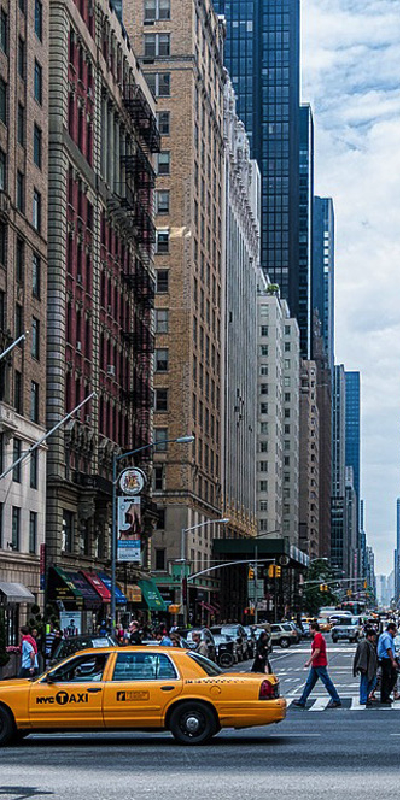
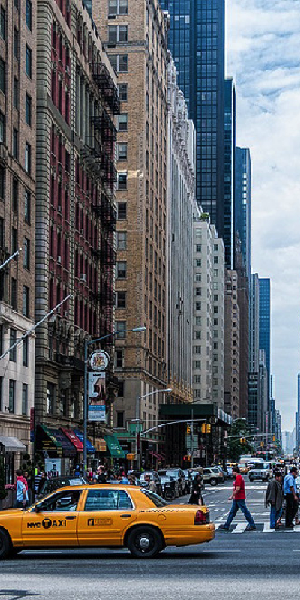
Implemented half image picker

diff --git a/sketch.js b/sketch.js
@@ -1,12 +1,23 @@
-let array = [];
+let drawing = [];
+let images = [];
 let mirror = false;
+let selectedImage = null;
+
+function preload()
+{
+  for (let k = 0; k < 4; k++)
+  {
+    images[k] = loadImage(`images/img_${k}.jpg`);
+    console.log("Loaded image : " + images[k]);
+  }
+}
 
 function setup()
 {
   createCanvas(600, 600);
   background(200);
 
-  strokeWeight(7);
+  strokeWeight(4);
   noFill();
 }
 
@@ -15,24 +26,30 @@ function draw()
   // Record user input as a drawing
   if (mouseIsPressed)
   {
-    array.push([mouseX, mouseY]);
+    drawing.push([mouseX, mouseY]);
+  }
+
+  // Redraw the canvas
+  background(200);
+  if (selectedImage != null)
+  {
+    image(images[selectedImage], 0, 0);
   }
 
   // Display the drawing
-  background(200);
   beginShape();
-  for (let i = 0; i < array.length; i++)
+  for (let i = 0; i < drawing.length; i++)
   {
-    curveVertex(array[i][0], array[i][1])
+    curveVertex(drawing[i][0], drawing[i][1])
   }
   endShape();
 
   if (mirror)
   {
     beginShape();
-    for (let i = 0; i < array.length; i++)
+    for (let i = 0; i < drawing.length; i++)
     {
-      curveVertex(600 - array[i][0], array[i][1])
+      curveVertex(600 - drawing[i][0], drawing[i][1])
     }
     endShape();
   }
@@ -47,17 +64,28 @@ function keyTyped()
   }
   else if (key === 'c')
   {
-    array = [];
+    drawing = [];
+    selectedImage = null
   }
   else if (key === 'u')
   {
-    for (let i = 0; i < 10 && array.length > 0; i++)
+    for (let i = 0; i < 10 && drawing.length > 0; i++)
     {
-      array.pop();
+      drawing.pop();
     }
   }
   else if (key === 'm')
   {
     mirror = !mirror;
+  }
+  else if (key === 'p')
+  {
+    // Pick a different image from the current loaded one
+    let newImage = selectedImage;
+    while (newImage == selectedImage)
+    {
+      newImage = int(random(3));
+    }
+    selectedImage = newImage;
   }
 }

diff --git a/index.html b/index.html
@@ -28,6 +28,10 @@
       <th>S</th>
       <th>Save your drawing</th>
     </tr>
+    <tr>
+      <th>P</th>
+      <th>Pick a random half image</th>
+    </tr>
   </ul>
 
 </body>
